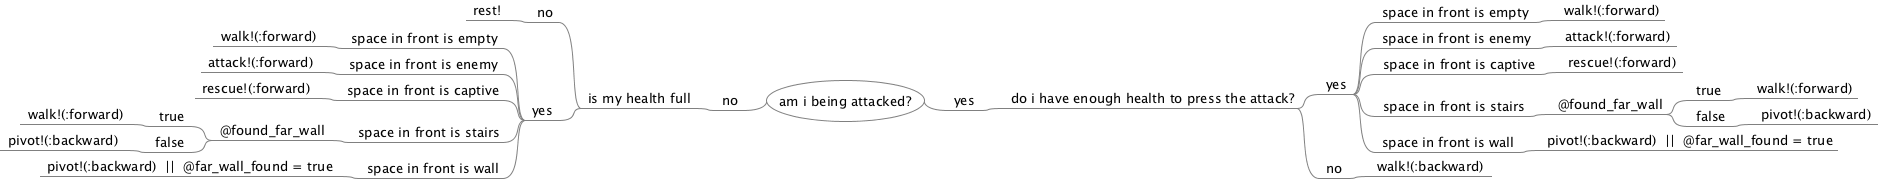
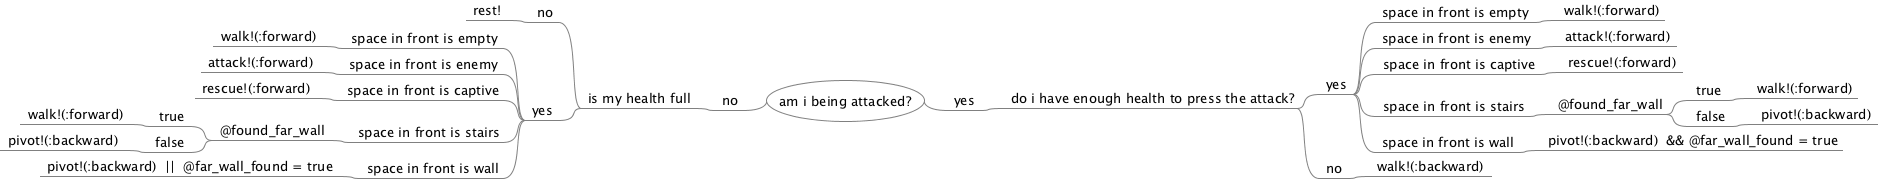
updates .profile and corrects typo in logicMap

Changed region(s): [[0.803, 0.7542, 0.9883, 0.838]]

diff --git a/ryjedo-beginner/lvl7-logicMap.mm b/ryjedo-beginner/lvl7-logicMap.mm
@@ -24,7 +24,7 @@
 </node>
 </node>
 <node CREATED="1411685436651" ID="ID_1435110827" MODIFIED="1411685443950" TEXT="space in front is wall">
-<node CREATED="1411685443951" ID="ID_548935232" MODIFIED="1411686789081" TEXT="pivot!(:backward)  ||  @far_wall_found = true"/>
+<node CREATED="1411685443951" ID="ID_548935232" MODIFIED="1411687260982" TEXT="pivot!(:backward)  &amp;&amp; @far_wall_found = true"/>
 </node>
 </node>
 <node CREATED="1411597173801" ID="ID_332531696" MODIFIED="1411597175297" TEXT="no">
